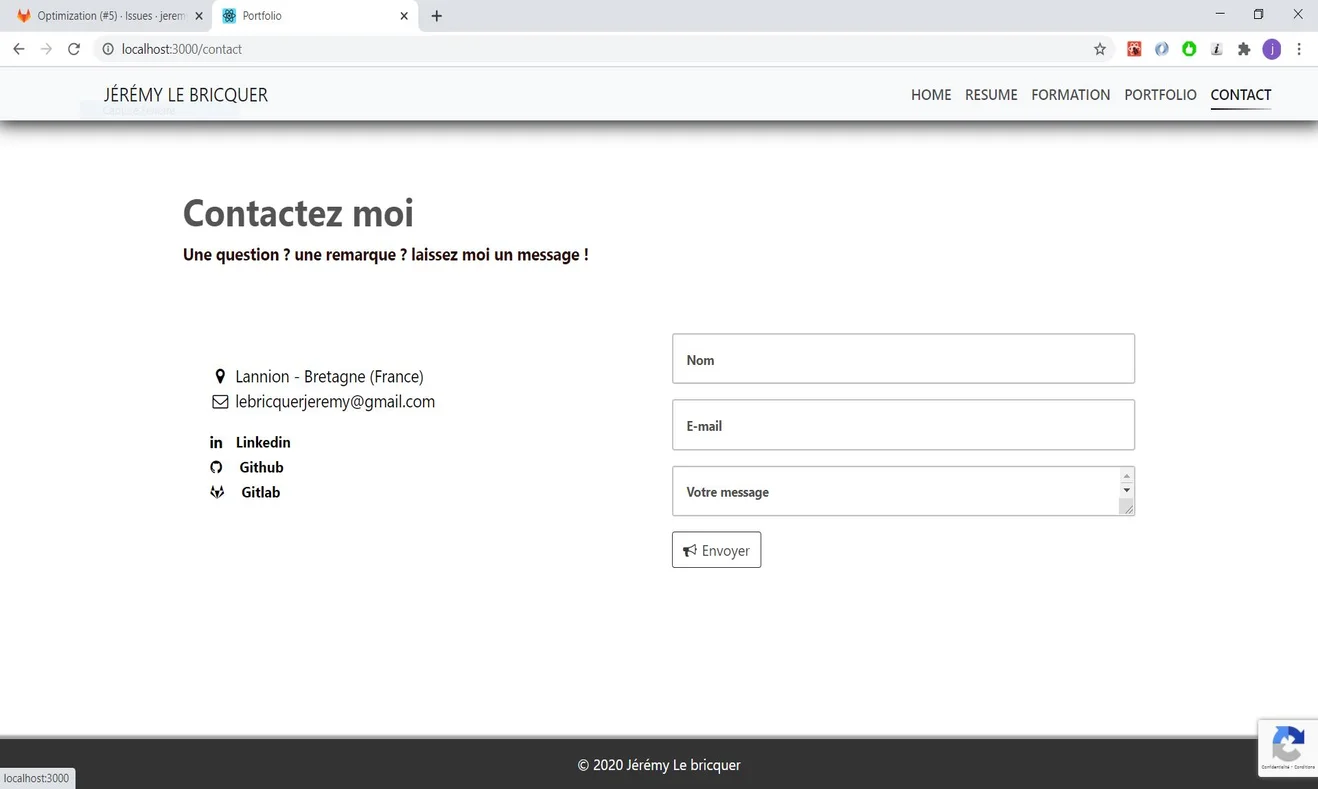
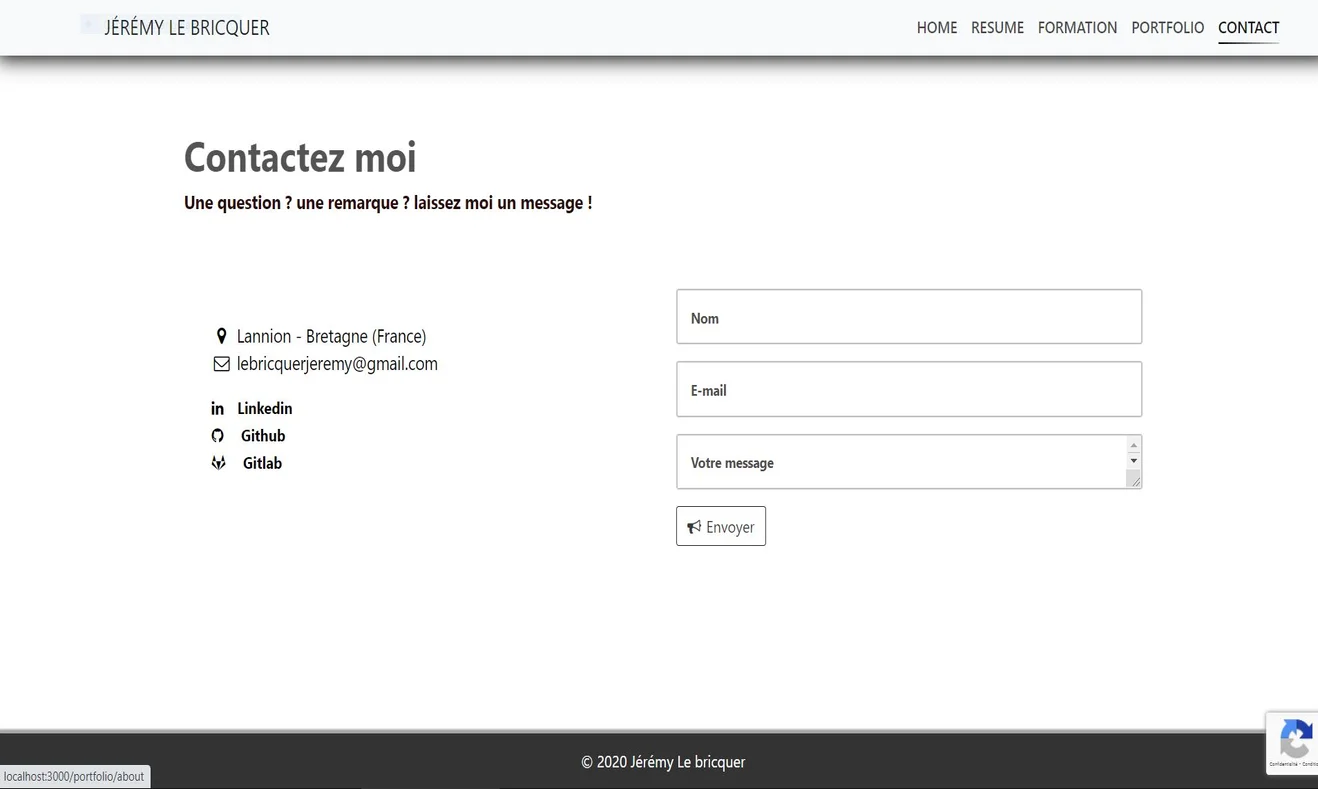
recaptcha key change for live

diff --git a/src/component/Navigation.tsx b/src/component/Navigation.tsx
@@ -7,15 +7,15 @@ const Navigation = () => {
   
   return (
     <Navbar bg="light" expand="lg" fixed="top" >
-      <Navbar.Brand as={NavLink} exact to="/" style={{marginLeft:"7%"}}>Jérémy Le bricquer</Navbar.Brand>
+      <Navbar.Brand as={NavLink} exact to="/portfolio/about" style={{marginLeft:"7%"}}>Jérémy Le bricquer</Navbar.Brand>
       <Navbar.Toggle />
       <Navbar.Collapse className="justify-content-end">
         <Nav >
-          <Nav.Link  as={NavLink} className="itemLink" exact to="/" >Home</Nav.Link>
-          <Nav.Link as={NavLink} className="itemLink" exact to="/resume" >Resume</Nav.Link>
-          <Nav.Link  as={NavLink} className="itemLink" exact to="/formation"  >Formation</Nav.Link>
+          <Nav.Link  as={NavLink} className="itemLink" exact to="/portfolio/about" >Home</Nav.Link>
+          <Nav.Link as={NavLink} className="itemLink" exact to="/portfolio/resume" >Resume</Nav.Link>
+          <Nav.Link  as={NavLink} className="itemLink" exact to="/portfolio//formation"  >Formation</Nav.Link>
           <Nav.Link  as={NavLink} className="itemLink" exact to="/portfolio" >Portfolio</Nav.Link>
-          <Nav.Link  as={NavLink} className="itemLink" exact to="/contact" >Contact</Nav.Link>
+          <Nav.Link  as={NavLink} className="itemLink" exact to="/portfolio/contact" >Contact</Nav.Link>
         </Nav>
       </Navbar.Collapse>
     </Navbar>

diff --git a/public/index.html b/public/index.html
@@ -12,10 +12,9 @@
 	<link rel="manifest" href="%PUBLIC_URL%/manifest.json" />
 	<link rel="stylesheet" href="https://maxcdn.bootstrapcdn.com/bootstrap/4.0.0/css/bootstrap.min.css"
 		integrity="sha384-Gn5384xqQ1aoWXA+058RXPxPg6fy4IWvTNh0E263XmFcJlSAwiGgFAW/dAiS6JXm" crossorigin="anonymous">
-	<link href="https://maxcdn.bootstrapcdn.com/font-awesome/4.7.0/css/font-awesome.min.css" rel="stylesheet"
-		media="screen">
-	<script src="https://www.google.com/recaptcha/api.js?render=reCAPTCHA_site_key"></script>
-	<script src="https://cdn.jsdelivr.net/npm/emailjs-com@2.3.2/dist/email.min.js" defer></script>
+	<link  href="https://maxcdn.bootstrapcdn.com/font-awesome/4.7.0/css/font-awesome.min.css" rel="stylesheet"
+		media="screen" crossorigin="anonymous">
+
 </head>
 
 <body>
@@ -24,5 +23,6 @@
 	</noscript>
 	<div id="root">...</div>
 </body>
-
+	<script src="https://www.google.com/recaptcha/api.js?render=reCAPTCHA_site_key"></script>
+	<script src="https://cdn.jsdelivr.net/npm/emailjs-com@2.3.2/dist/email.min.js" defer></script>
 </html>

diff --git a/src/App.tsx b/src/App.tsx
@@ -40,14 +40,14 @@ const App = (props:any) => {
         <Navigation />
         <Suspense fallback={renderLoader()}>
         <Switch>
-          <Route exact path="/" component={Main} />
-          <Route exact path="/resume" component={Resume} />
-          <Route exact path="/formation" component={Formation} />
+          <Route exact path="/portfolio/about" component={Main} />
+          <Route exact path="/portfolio/resume" component={Resume} />
+          <Route exact path="/portfolio//formation" component={Formation} />
           <Route exact path="/portfolio" component={Portfolio} />
-          <Route exact path="/contact" component={Contact} />
+          <Route exact path="/portfolio/contact" component={Contact} />
           <Route exact path={`/portfolio/:id`} render={(props) => <Projects dataProject={Portfolio} {...props} />} />
           <Route component={NoMatchPage} />
-          <Redirect to="/404" />
+          <Redirect to="/portfolio/404" />
         </Switch>
         </Suspense>
       </Router>

diff --git a/src/component/ResumeComponent/CallOutComponent/CallOut.tsx b/src/component/ResumeComponent/CallOutComponent/CallOut.tsx
@@ -13,7 +13,7 @@ export default function CallOut() {
                     <div className="col-md-9 headline nomargin ">
                         <h3>Je suis disponible pour travailler (CDI / Prestation).</h3>
                         <p>Quelques soit votre projet, n'hésitez pas à me contacter pour en parler ensemble.</p>
-                        <Link to="contact">
+                        <Link to="/portfolio/contact">
                             <button type="button" className="btn btn-outline-dark" >
                                 <i className="fa fa-paper-plane-o icon-before"></i>Contactez moi
                             </button>

diff --git a/src/component/IntroComponent/ProfilContact.tsx b/src/component/IntroComponent/ProfilContact.tsx
@@ -8,7 +8,7 @@ export default function ProfilsContact() {
             <div className="container">
                 <div className="row " >
                     <div className="col-sm-6 " style={{"textAlignLast": "center"}}>
-                    <NavLink className="not-active" to="/contact">
+                    <NavLink className="not-active" to="/portfolio/contact">
                         <div className="profile-item"><i className="fa fa-envelope-o"></i>
                             <p className="link">
                                 lebricquerjeremy@gmail.com

diff --git a/src/component/NoMatchPage.tsx b/src/component/NoMatchPage.tsx
@@ -10,7 +10,7 @@ const NoMatchPage = () => {
           <div className="home-content">
             <h1><span>404</span></h1>
             <h2>The page you are looking for doesn't exist.</h2>
-            <Link to="/" className="btn-outline">go back</Link>
+            <Link to="/portfolio/about" className="btn-outline">go back</Link>
           </div>
         </div>
       </div>

diff --git a/src/component/IntroComponent/Intro.tsx b/src/component/IntroComponent/Intro.tsx
@@ -71,7 +71,7 @@ const Intro = () => {
                 </p>
               </span>
             </div>
-            <a href="/resume" aria-label="resume">
+            <a href="/portfolio/resume" aria-label="resume">
               <div className="mouse-icon">
                 <div className="wheel"></div>
               </div>

diff --git a/src/component/PortfolioComponent/Project/ProjectDetail.tsx b/src/component/PortfolioComponent/Project/ProjectDetail.tsx
@@ -19,7 +19,6 @@ const ProjectDetail = (props: any) => {
   });
 
   const handleClick = (value: any) => {
-    console.log(value);
     setState({
       index: value,
     });
